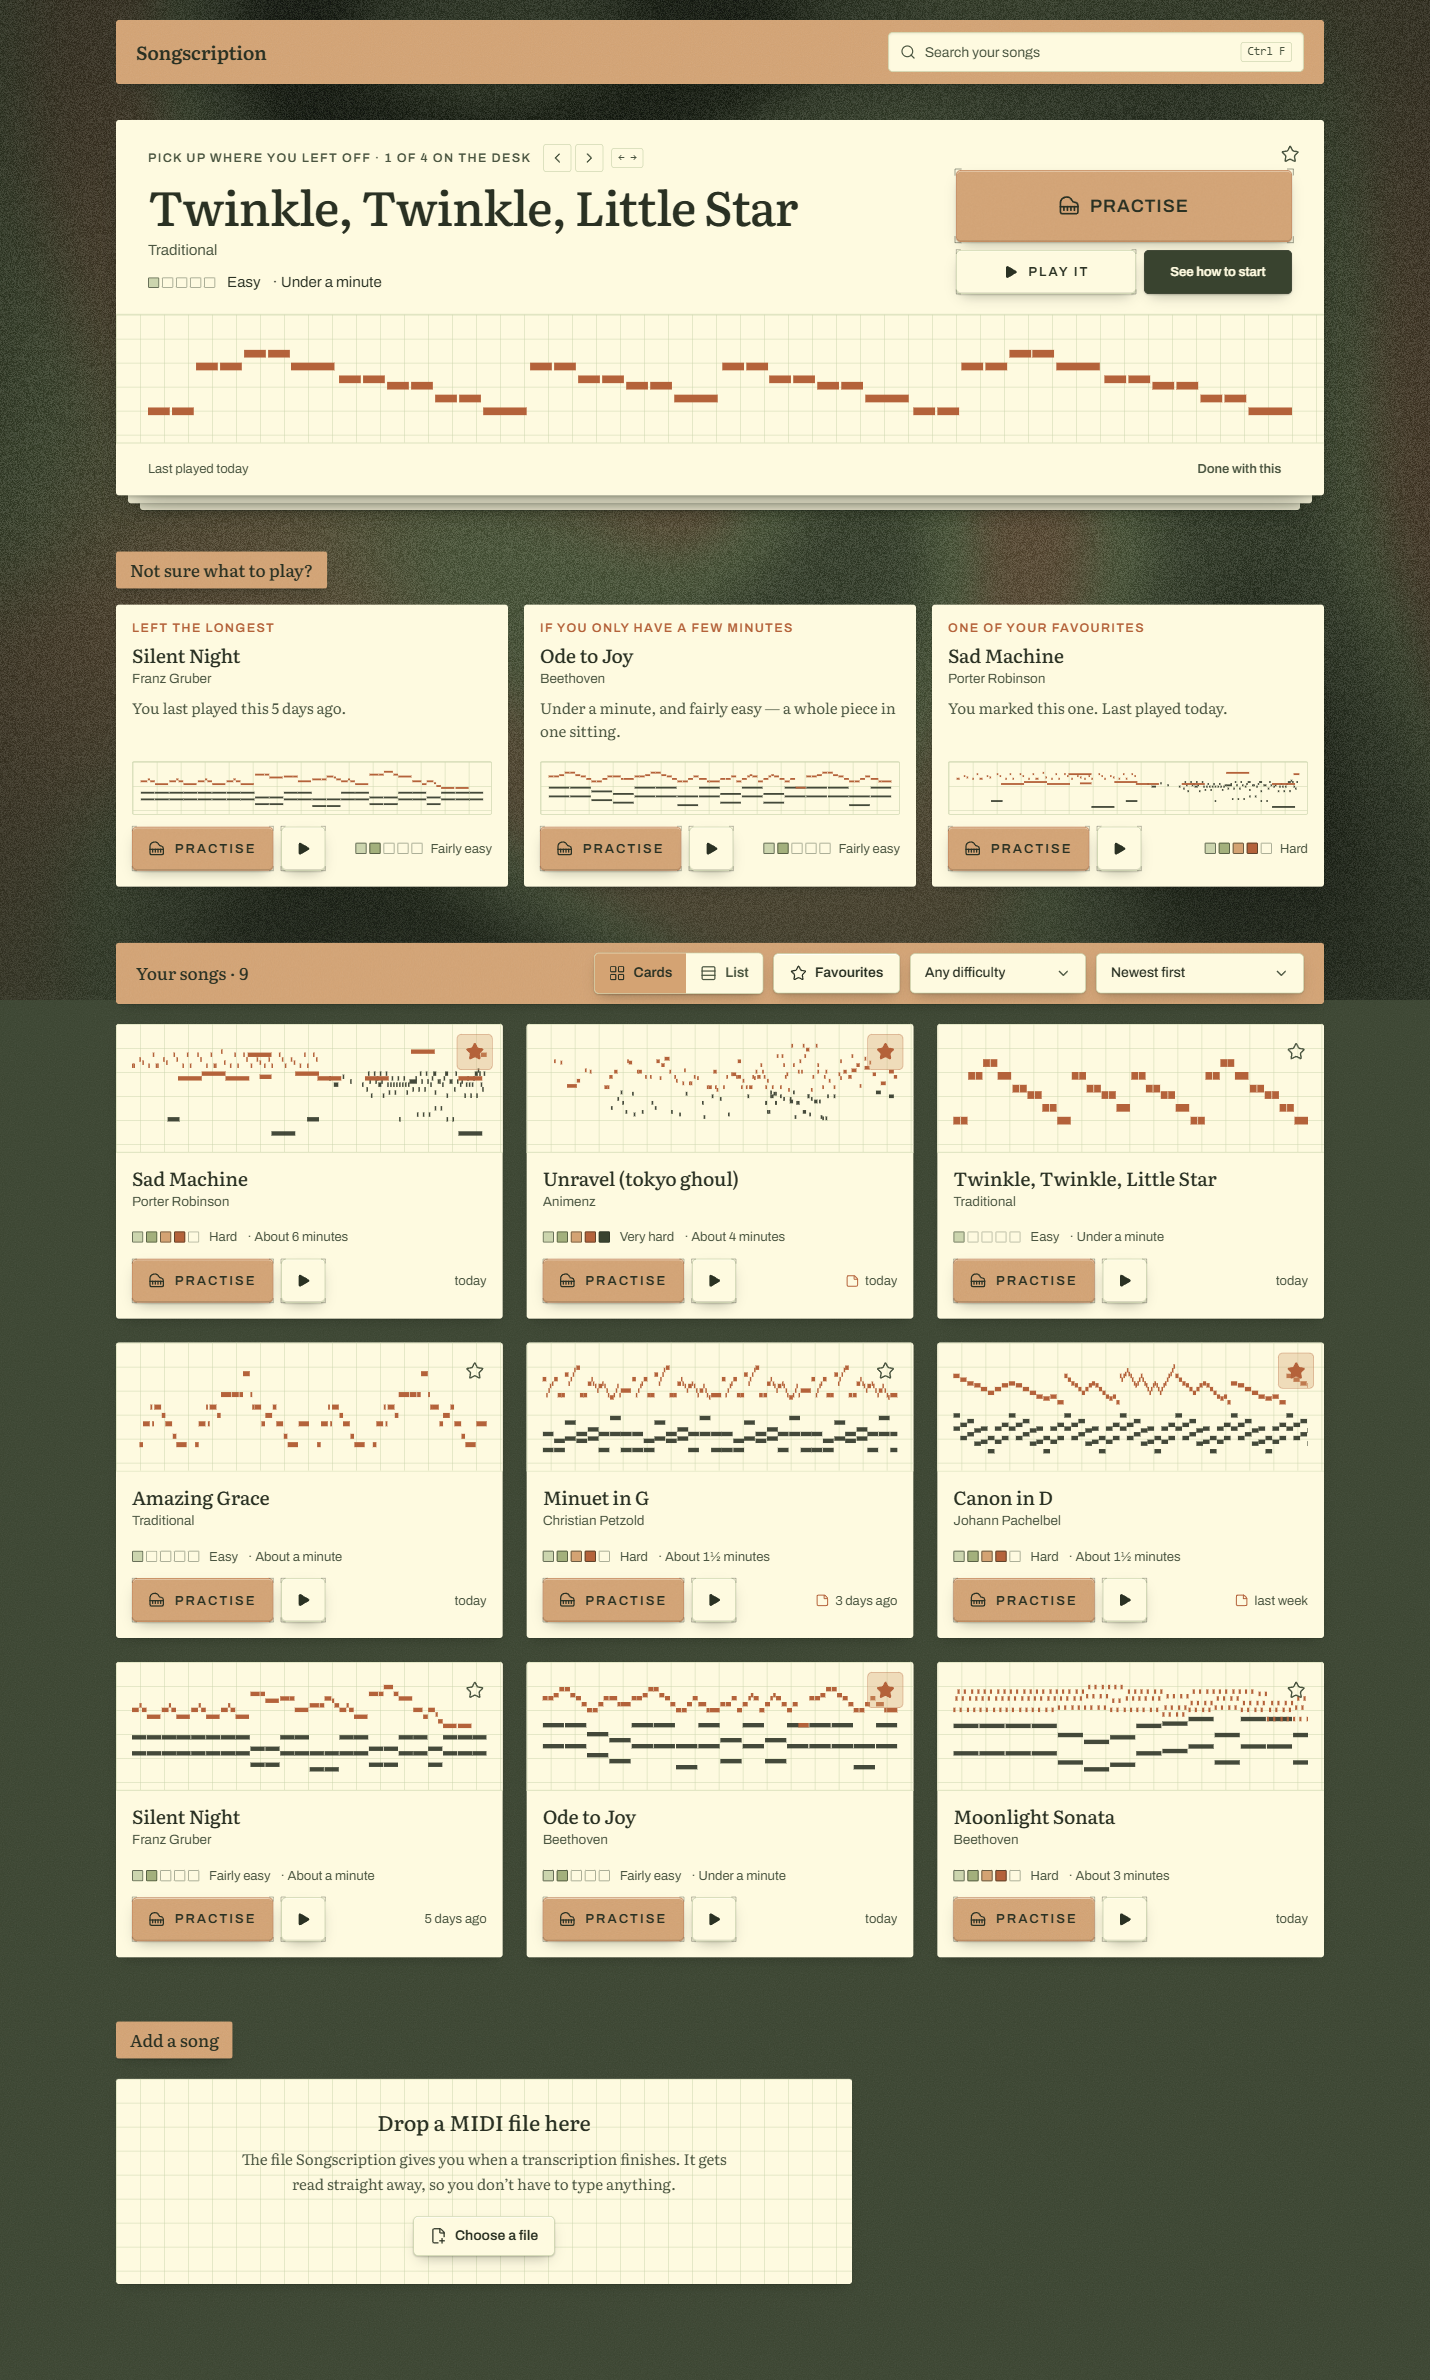
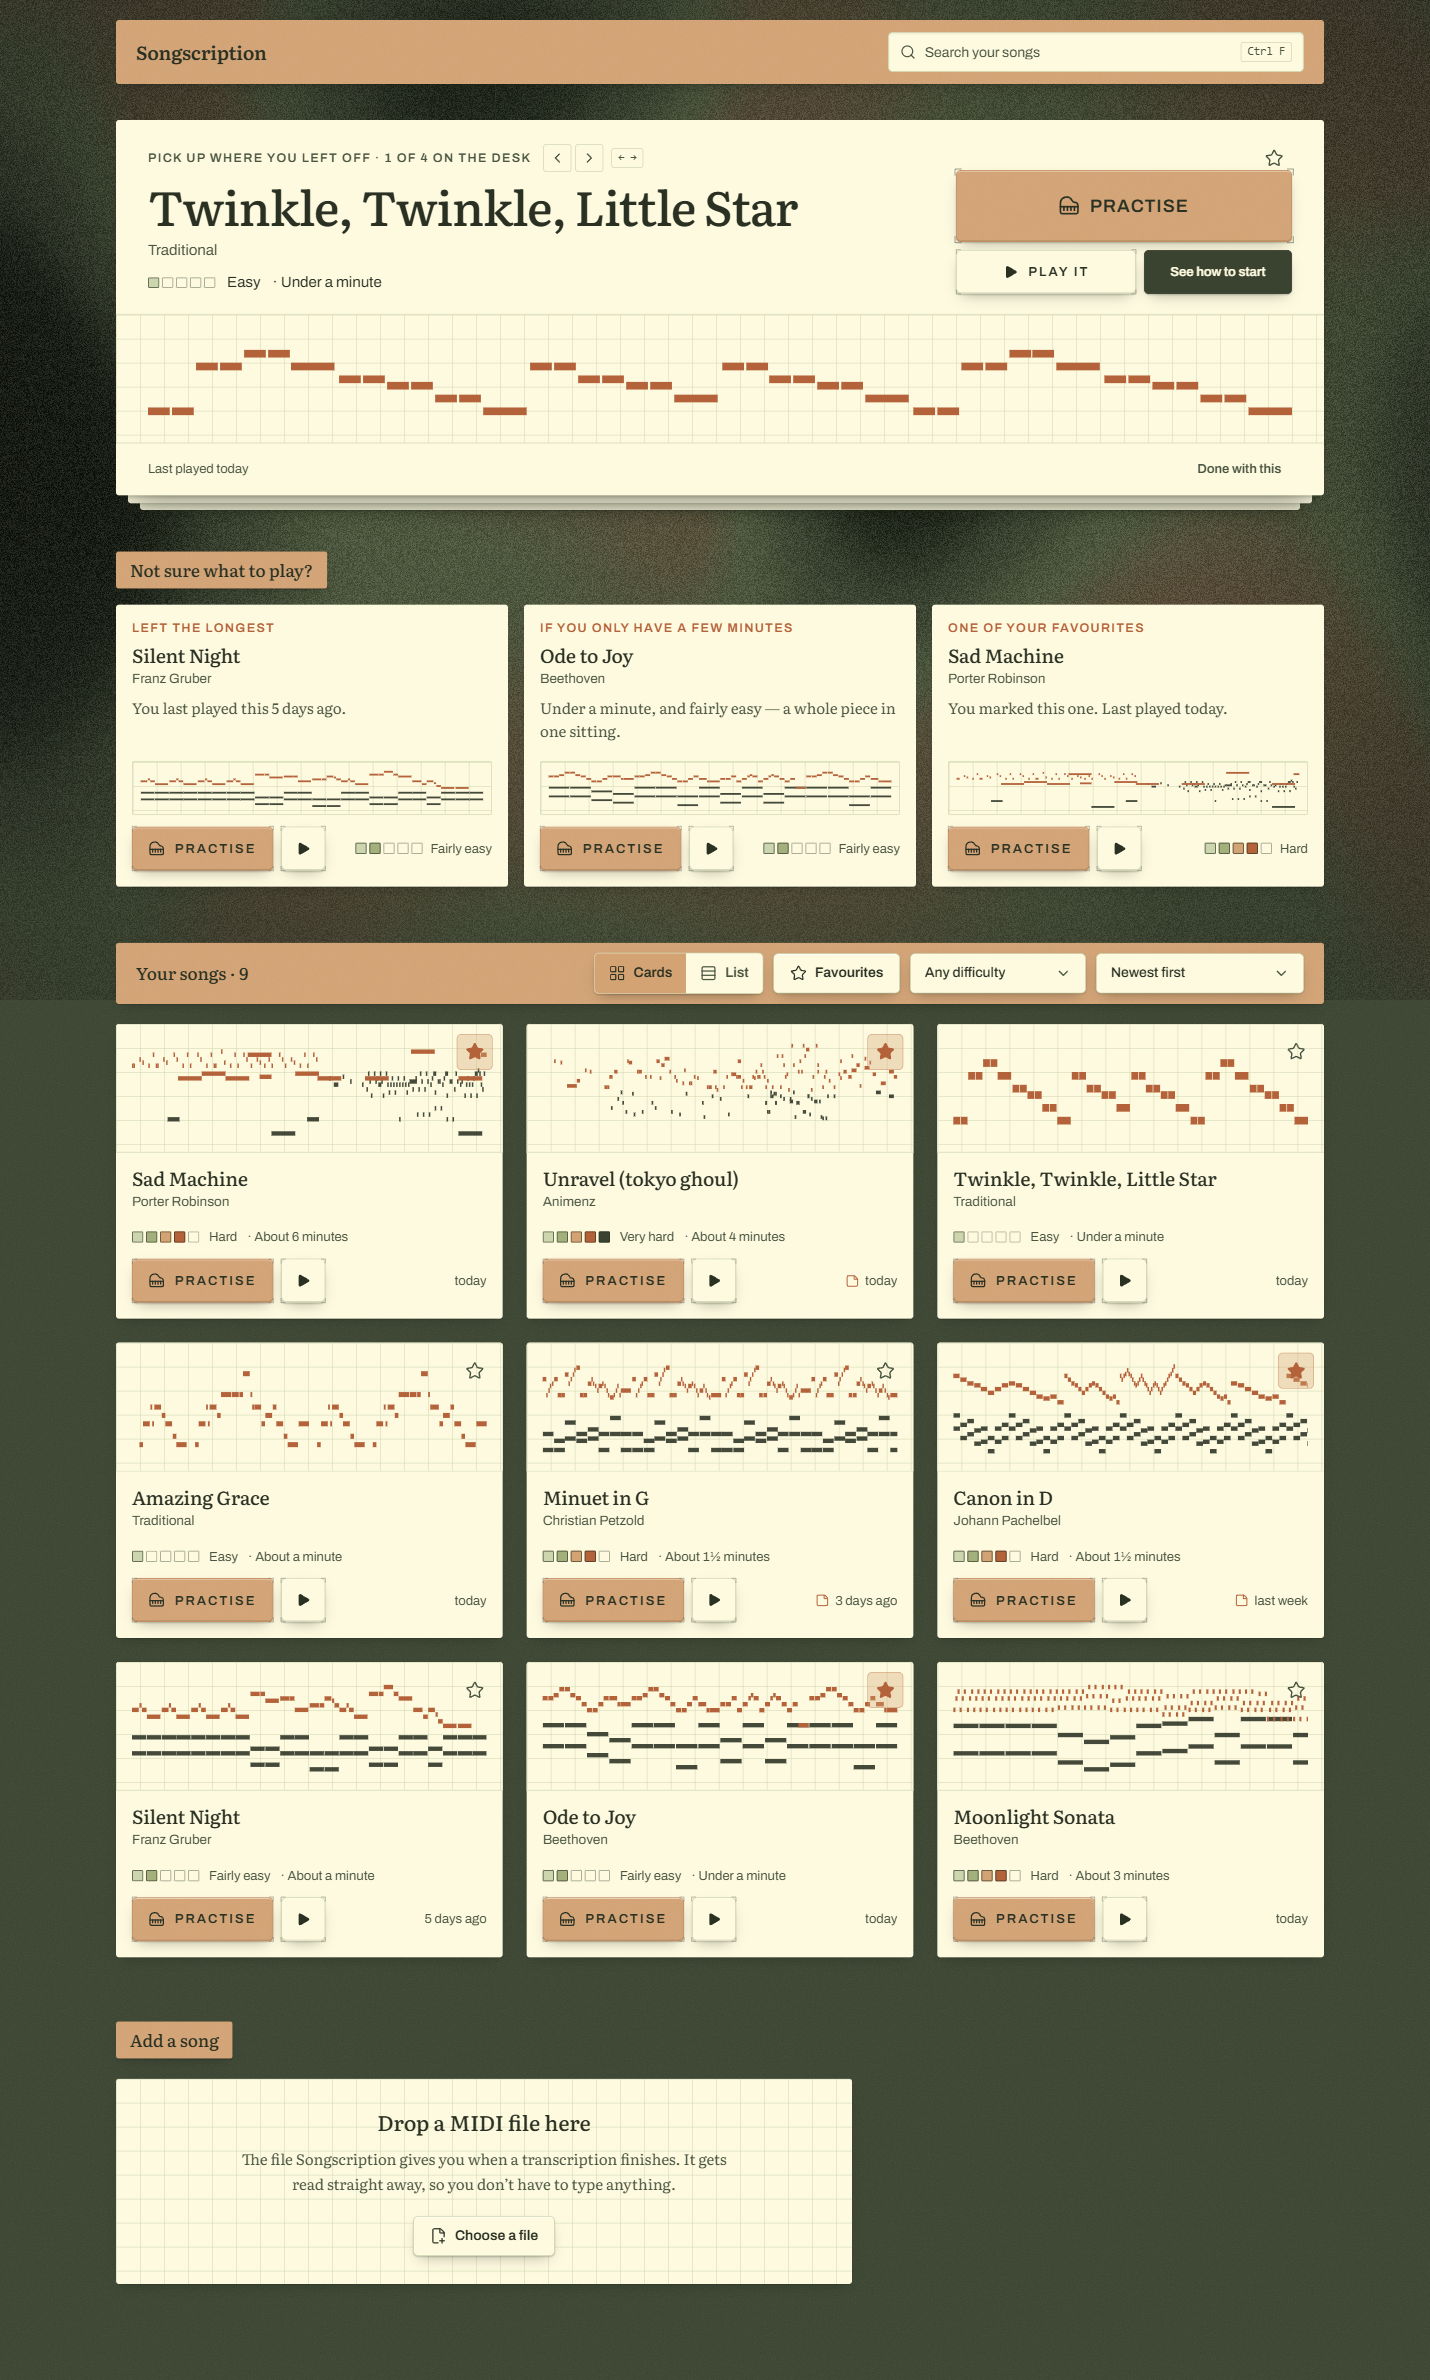
The bookmark lines up with the column it sits above
It was pinned to the card's edge while everything under it is inset to the
card's padding, so its right edge stood a clear sixteen pixels proud of the
Practise button below. Inset to the same padding now: star, Practise and See how
to start all end on the same line, measured, at both widths.

diff --git a/src/components/Library.tsx b/src/components/Library.tsx
@@ -356,12 +356,14 @@ export function Library({ initial, configured }: { initial: Piece[]; configured:
                   <article key={current.id} className="lay-down sheet sheet-raised relative">
                     {/* Same corner every other card in the book uses: saving a
                         piece is not one of the three things you came here to do,
-                        and it was sitting in the middle of the row that is. */}
+                        and it was sitting in the middle of the row that is.
+                        Inset to the card's own padding, not its edge, so its
+                        right edge lines up with the buttons underneath it. */}
                     <FavouriteButton
                       favourite={current.is_favourite}
                       title={current.title}
                       onToggle={() => favourite(current)}
-                      className="absolute right-3 top-3 z-10 md:right-4 md:top-4"
+                      className="absolute right-4 top-4 z-10 md:right-8 md:top-5"
                     />
                     <div className="flex flex-wrap items-end gap-x-8 gap-y-4 px-4 pb-4 pt-5 md:gap-y-5 md:px-8 md:pb-5 md:pt-6">
                       <div className="min-w-0 flex-1">
